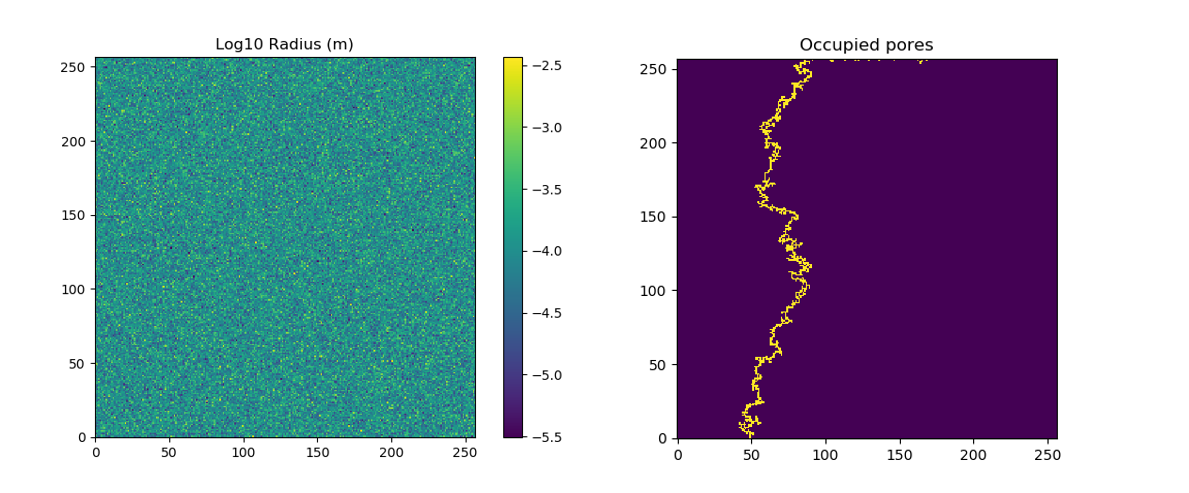
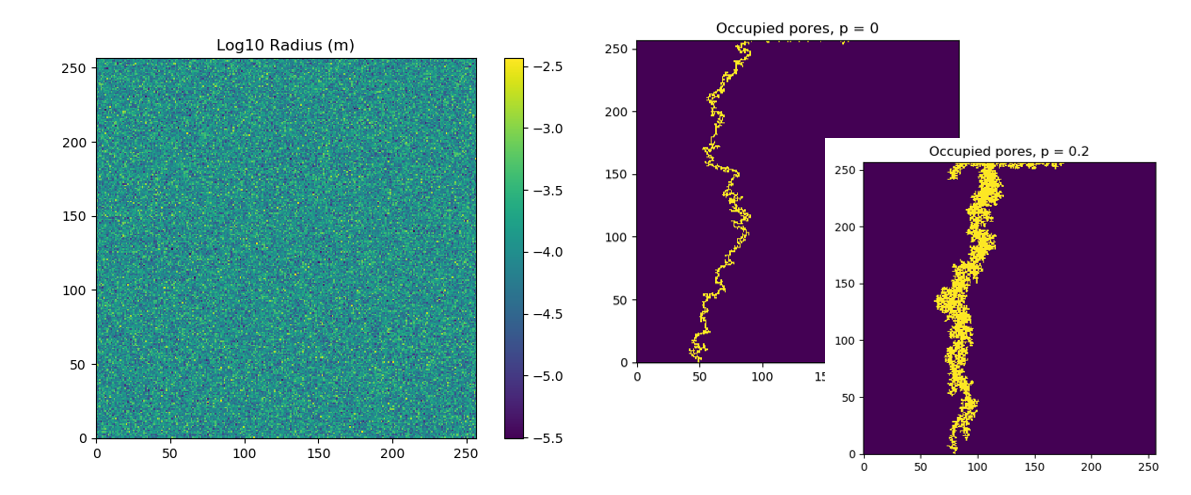
Updated readme, examples, documentation

diff --git a/examples/sand_pack_example.py b/examples/sand_pack_example.py
@@ -19,9 +19,9 @@ contact_angles = [150,150,150] # degrees, for the invading fluid on each grain
 surface_tension = 72*0.001 # N/m
 # Iterations
 max_iterations = -1 # Run to completion
-# Growth model
-p = 0.0
-seed = 340995
+# Stochastic selection
+p = 0
+
 
 # Get an IP model instance
 ip = pyperc.model.InvasionPercolation()
@@ -35,8 +35,27 @@ radius = np.loadtxt('data/Sandpack_radius_cm.txt')/100 # sorted by z, then y, th
 grain = np.loadtxt('data/Sandpack_type.txt') # sorted by z, then y, then x
 
 ip.setup_grid(Nx,Ny,Nz,cell_size, radius, grain)
-ip.pores['grain'] = ip.pores['grain'] - 1 # zero based index
+ip.pores['grain'] = ip.pores['grain'] - 1 # change to zero based index
 
+# Initialize pores
+ip.initialize_pores(contact_angles, invading_fluid_density, 
+                    defending_fluid_density, surface_tension)
+
+# Reset start location and update neighbors
+# Circle centered at (116.5, 29.5) with radius 5.5
+# (x-116.5)^2 + (z-29.5)^2 < 5.5^2
+ip.pores.start = 0
+ip.pores.loc[pow(ip.pores.x-116.5*cell_size,2) + 
+             pow(ip.pores.z-29.5*cell_size,2) < 
+             pow(5.5*cell_size,2),'start'] = 1
+ip.pores.occupy = ip.pores.start
+ip.update_neighbors()
+
+# Run invasion percolation
+ip.run(max_iterations, p)
+
+
+# Generate figures
 radius = ip.pores.radius.values.reshape((Nz,Ny,Nx))
 plt.figure()
 plt.imshow(radius[:,0,:], origin='lower')
@@ -49,18 +68,6 @@ plt.figure()
 plt.imshow(grain[:,0,:], origin='lower')
 plt.title('Grain type')
 plt.tight_layout()
-
-# Initialize pores
-ip.initialize_pores(contact_angles, invading_fluid_density, 
-                    defending_fluid_density, surface_tension)
-
-# Reset start location and update neighbors
-# Circle centered at (116.5, 29.5) with radius 5.5
-# (x-116.5)^2 + (z-29.5)^2 < 5.5^2
-ip.pores.start = 0
-ip.pores.loc[pow(ip.pores.x-116.5*cell_size,2) + pow(ip.pores.z-29.5*cell_size,2) < pow(5.5*cell_size,2),'start'] = 1
-ip.pores.occupy = ip.pores.start
-ip.update_neighbors()
 
 start = ip.pores.start.values.reshape((Nz,Ny,Nx))
 plt.figure()
@@ -91,9 +98,6 @@ plt.scatter(ip.pores['radius'], ip.pores['pt'])
 plt.xlabel('Radius (m)')
 plt.ylabel('Total pressure (Pa)')
 
-# Run invasion percolation
-ip.run(max_iterations,p,seed)
-
 # Plot results
 plt.figure()
 plt.plot(ip.results.threshold)
@@ -119,7 +123,7 @@ plt.figure()
 plt.imshow(occupy[:,0,:], origin='lower')
 plt.title('Occupied pores')
 
-iteration = pd.Series(index=ip.pores.index, data=np.nan) #-ip.results.index.max().max()*0.05) 
+iteration = pd.Series(index=ip.pores.index, data=np.nan)
 iteration1 = pd.Series(index = ip.results.node, data = ip.results.index)
 iteration[iteration1.index] = iteration1
 iteration = iteration.values.reshape((Nz,Ny,Nx))

diff --git a/examples/random_porous_media_example.py b/examples/random_porous_media_example.py
@@ -19,9 +19,9 @@ contact_angles = [124] # degrees, for the invading fluid on each grain
 surface_tension = 0.03 # N/m
 # Iterations
 max_iterations = -1 # Run to completion
-# Growth model
-p = 0
-seed = 340995
+# Stochastic selection
+p = 0.2
+
 
 # Get an IP model instance
 ip = pyperc.model.InvasionPercolation()
@@ -60,7 +60,12 @@ ip.pores.loc[(ip.pores.z == max(ip.pores.z)) & \
 ip.pores.loc[ip.pores.z == 0,'end'] = 1
 ip.pores.occupy = ip.pores.start
 ip.update_neighbors()
-     
+    
+# Run invasion percolation
+ip.run(max_iterations, p)
+
+
+# Generate figures
 start = ip.pores.start.values.reshape((Nz,Ny,Nx))
 plt.figure()
 plt.imshow(start[:,0,:], origin='lower')
@@ -96,10 +101,6 @@ plt.scatter(ip.pores['radius'], ip.pores['pt'])
 plt.xlabel('Radius (m)')
 plt.ylabel('Total pressure (Pa)')
 
-# Run invasion percolation
-ip.run(max_iterations,p,seed)
-
-# Plot results
 plt.figure()
 plt.plot(ip.results.threshold)
 plt.xlabel('Iteration')
@@ -124,7 +125,7 @@ plt.figure()
 plt.imshow(occupy[:,0,:], origin='lower')
 plt.title('Occupied pores')
 
-iteration = pd.Series(index=ip.pores.index, data=np.nan) #-ip.results.index.max().max()*0.05) 
+iteration = pd.Series(index=ip.pores.index, data=np.nan)
 iteration1 = pd.Series(index = ip.results.node, data = ip.results.index)
 iteration[iteration1.index] = iteration1
 iteration = iteration.values.reshape((Nz,Ny,Nx))

diff --git a/pyperc/model.py b/pyperc/model.py
@@ -181,7 +181,7 @@ class InvasionPercolation(object):
         self.pores.pc = (-2.0*self.tension*np.cos(self.pores.angle*np.pi/180))/(self.pores.radius*radius_multiplier)
         self.pores.pt = self.pores.pc + self.pores.pg
 
-    def _set_stochastic_parameters(self, p=0, seed=None):
+    def _set_stochastic_parameters(self, p=0):
         """ 
         Set stochastic parameters
         """  
@@ -262,21 +262,27 @@ class InvasionPercolation(object):
         """
 		Run invasion percolation model
 		
-		Parmaeters
+		Parameters
 		--------------
 		max_iterations : int
 			Maximum number of iteration, -1 = run to completion
 		p : float
-			Stochastic process parameter, between -1 and 1
+			Stochastic process parameter, between 0 and 1
 		seed : int
 			Random seed used in the stochastic process
 		"""
+        if (p > 1) or (p < 0):
+            print('p must be in [0,1]')
+            return
+        
+        np.random.seed(seed)
+        
         facilitation=False # BETA, not fully tested (and slow).
         
         thresh = []
         node = []
         
-        self._set_stochastic_parameters(p, seed)   
+        self._set_stochastic_parameters(p)   
         self.update_neighbors()
         if facilitation: self._update_facilitation()
         

diff --git a/examples/grid_example.py b/examples/grid_example.py
@@ -14,9 +14,9 @@ contact_angles = [65] # degrees, for the invading fluid
 surface_tension = 0.05 # N/m
 # Iterations
 max_iterations = -1 # Run to completion
-# Growth model
-p= 0
-seed= 340995
+# Stochastic selection
+p = 0
+
 
 # Get an IP model instance
 ip = pyperc.model.InvasionPercolation()
@@ -29,16 +29,17 @@ cell_size = 0.0005 # 5 mm
 radius_mean = 0.0002 # radius defined using a truncated normal distribution
 radius_std = 0.00005
 radius_min = 0.00001  
-ip.setup_grid(Nx, Ny, Nz, cell_size, (radius_mean, radius_std, radius_min), 0)
+ip.setup_grid(Nx, Ny, Nz, cell_size, (radius_mean, radius_std, radius_min))
 
 # Initialize pores
 ip.initialize_pores(contact_angles, invading_fluid_density, 
                     defending_fluid_density, surface_tension)
 
 # Run invasion percolation
-ip.run(max_iterations,p,seed)
+ip.run(max_iterations, p)
 
-# Plot results
+
+# Generate figures
 N_all = len(ip.pores.radius)
 x_all = np.sort(ip.pores.radius)
 f_all = np.array(range(N_all))/float(N_all)

diff --git a/examples/network_example.py b/examples/network_example.py
@@ -14,9 +14,9 @@ contact_angles = [65, 165] # degrees, for the invading fluid
 surface_tension = 0.05 # N/m
 # Iterations
 max_iterations = -1 # Run to completion
-# Growth model
+# Stochastic selection
 p = 0.1
-seed = 340995
+
 
 # Get an IP model instance
 ip = pyperc.model.InvasionPercolation()
@@ -35,9 +35,10 @@ ip.initialize_pores(contact_angles, invading_fluid_density,
                     defending_fluid_density, surface_tension)
 
 # Run invasion percolation
-ip.run(max_iterations,p,seed)
+ip.run(max_iterations, p)
 
-# Plot results
+
+# Generate figures
 N_all = len(ip.pores.radius)
 x_all = np.sort(ip.pores.radius)
 f_all = np.array(range(N_all))/float(N_all)

diff --git a/README.md b/README.md
@@ -1,22 +1,71 @@
 pyperc
 =======================================
 
-pyperc is a Python package for invasion percolation which models multiphase fluid migration in porous 
-media.  The model accounts for capillary pressure, buoyancy, and gravity.  A tuning parameter can be 
+pyperc is a Python package for invasion percolation which models multiphase 
+fluid migration in porous media.  The model accounts for capillary pressure 
+and buoyancy to sequentially fill pores along an interface between
+an invading and defending fluid.  A tuning parameter can be 
 set to adjust the stochastic nature of the process.  Model equations are from [1,2]. 
 
-The software contains a single class, `pyperc.model.InvasionPercolation`, which is used to complete the following steps:
+To use pyperc, a pore network model is defined and each pore is initially 
+filled with an invading or defending fluid. The desired terminal pores for the 
+invading fluid are also defined, along with fluid-rock properties, including fluid 
+densities, surface tension, and contact angles. Contact angles can vary 
+throughout the pore network model to reflect spatial heterogeneity.
+pyperc then advances the invading fluid by filling a pore along the interface of 
+the invading and defending fluid which has the the lowest total invading pressure. 
+A stochastic selection parameter (p, between 0 and 1) adds a random selection 
+process to the model [1]. When p = 0, the pore with the lowest total invading pressure 
+is filled at each iteration (no stochastic selection). As p increases to 1, 
+pores along the interface with higher total invading pressure can be filled.  
+When p = 1, the selection process along the interface is completely random.
+Note that p < 0, for multi-finger stochastic selection, is not implemented at this time.
+The invasion percolation process continues until the invading fluid reaches 
+a terminal pore or the maximum number of iterations are run.
 
-1. Define the regular or irregularly structured pore network including the x,y,z location of pores, connectivity 
-   between pores, and pore radius. The pore network can be defined using a regularly spaced grid 
-   (see [3D regular grid example](examples/grid_example.py))
-   or using pore and throat files (see [3D irregular grid example](examples/network_example.py)).
-2. Initialize the pore network with contact angles, invading fluid density, defending fluid density, and surface tension. 
-   The user can also specify custom start and end location used to track fluid migration and the initial condition of occupied pores.
-3. Run invasion percolation and specify the maximum number of iterations, stochastic selection parameter, and random seed.
+Total invading pressure (Pt) at each pore is defined as follows:
 
-Additionally, the software contains a graphics module, `pyperc.graphics` which contains a function to plot 3D pore 
-network models using plotly. matplotlib can be used to create simple 2D graphics using imshow.
+* Pc = 2*gamma*cos(theta)/r
+* Pg = (dd-di)*g*z
+* Pt = Pc + Pg
+
+where:
+
+* Pc = capillary pressure (Pa)
+* Pg = buoyancy (gravity) pressure (Pa)
+* gamma = surface tension (N/m)
+* theta = invading fluid contact angle (degrees)
+* r = pore radius (m)
+* dd = defending fluid density (kg/m3)
+* di = invading fluid density (kg/m3)
+* g = acceleration due to gravity (-9.8 m/s2)
+* z = distance between the pore and a reference elevation (m)
+
+The software contains a single class, `pyperc.model.InvasionPercolation`, which
+is used to complete the following steps:
+
+1. Define the regular or irregularly structured pore network including the 
+   x,y,z location of pores, connectivity between pores, and pore radius. 
+   The pore network can be defined using a regularly spaced grid 
+   (see [3D regular grid example](examples/grid_example.py)) or using pore and 
+   throat files (see [3D irregular grid example](examples/network_example.py)).
+   pyperc stores pore properties using a pandas DataFrame (`InvasionPercolation.pores`).
+   and stores network connectivity using a networkx graph (`InvasionPercolation.G`).
+2. Initialize the pore network with contact angles, invading fluid density, 
+   defending fluid density, and surface tension. The user can also specify 
+   the initial condition (invading or defending fluid) for each pore and the 
+   desired terminal pores for the invading fluid.  These properties update the pandas 
+   DataFrame to include Pc, Pg, Pt, start and end locations for the invading fluid, 
+   current occupied pores, and current pores along the invading/defending interface (called neighbors).
+3. Run invasion percolation and specify the maximum number of iterations, 
+   stochastic selection parameter, and random seed.  At each iteration, the occupied and 
+   neighboring pores are updated in the pandas DataFrame.  pyperc also stores results as a pandas
+   Dataframe (`InvasionPercolation.results`), which contains the pressure threshold 
+   and pore number that was filled at each iteration.
+   
+Additionally, the software contains a graphics module, `pyperc.graphics` which 
+contains a function to plot 3D pore network models using plotly. matplotlib can 
+be used to create simple 2D graphics using imshow.
 
 Examples
 -----------
@@ -25,22 +74,22 @@ parameters, including the stochastic selection process and density
 difference, to explore a range percolation processes:
 
 * [2D random porous media example](examples/random_porous_media_example.py), based on [1]. 
-  Graphic below shows pore radius and occupied pores (yellow) after running invasion percolation.
+  Graphic below shows pore radius and occupied pores (yellow) based on invasion percolation using p = 0 and p = 0.2.
 
 ![Random field example](figures/random_ex.png)
 
 * [2D sand pack example](examples/sand_pack_example.py), based on [2].
-  Graphic below shows pore radius and occupied pores (yellow) after running invasion percolation.
+  Graphic below shows grain type, pore radius, and occupied pores (yellow) based on invasion percolation.
   
 ![Sand pack example](figures/sand_pack_ex.png)
 
 * [3D regular grid example](examples/grid_example.py).
-  Graphic below shows occupied pores, colored by iteration number, after running invasion percolation.
+  Graphic below shows occupied pores, colored by iteration number, based on invasion percolation.
 
 ![Grid example](figures/grid_ex.png)
 
 * [3D irregular grid example](examples/network_example.py).
-  Graphic below shows occupied pores, colored by iteration number, after running invasion percolation.
+  Graphic below shows occupied pores, colored by iteration number, based on invasion percolation.
 
 ![Network example](figures/network_ex.png)
 
@@ -56,17 +105,22 @@ All units are SI:
 
 Installation
 -----------------
-pyperc requires Python (3.5, 3.6, or 3.7) along with several Python package dependencies.  
+pyperc requires Python (3.5, 3.6, or 3.7) along with several Python package dependencies.
 Information on installing and using Python can be found at 
-https://www.python.org/.  
+https://www.python.org.
 Python distributions, such as Anaconda, are recommended to manage the Python interface.  
 
-To install the development branch of pyperc from source using git::
+The pyperc source files can be obtained by downloading a zip file or using git.  
+The zip file is located at https://github.com/kaklise/pyperc/archive/master.zip
+To use git, run::
 
 	git clone https://github.com/sandialabs/pyperc
-	cd pyperc
-	python setup.py install
+	
+Once the source files have been obtained (and uncompressed if using the zip file), 
+run the following command from within the main pyperc folder::
 
+	python setup.py install
+	
 Python package dependencies include:
 
 * numpy
